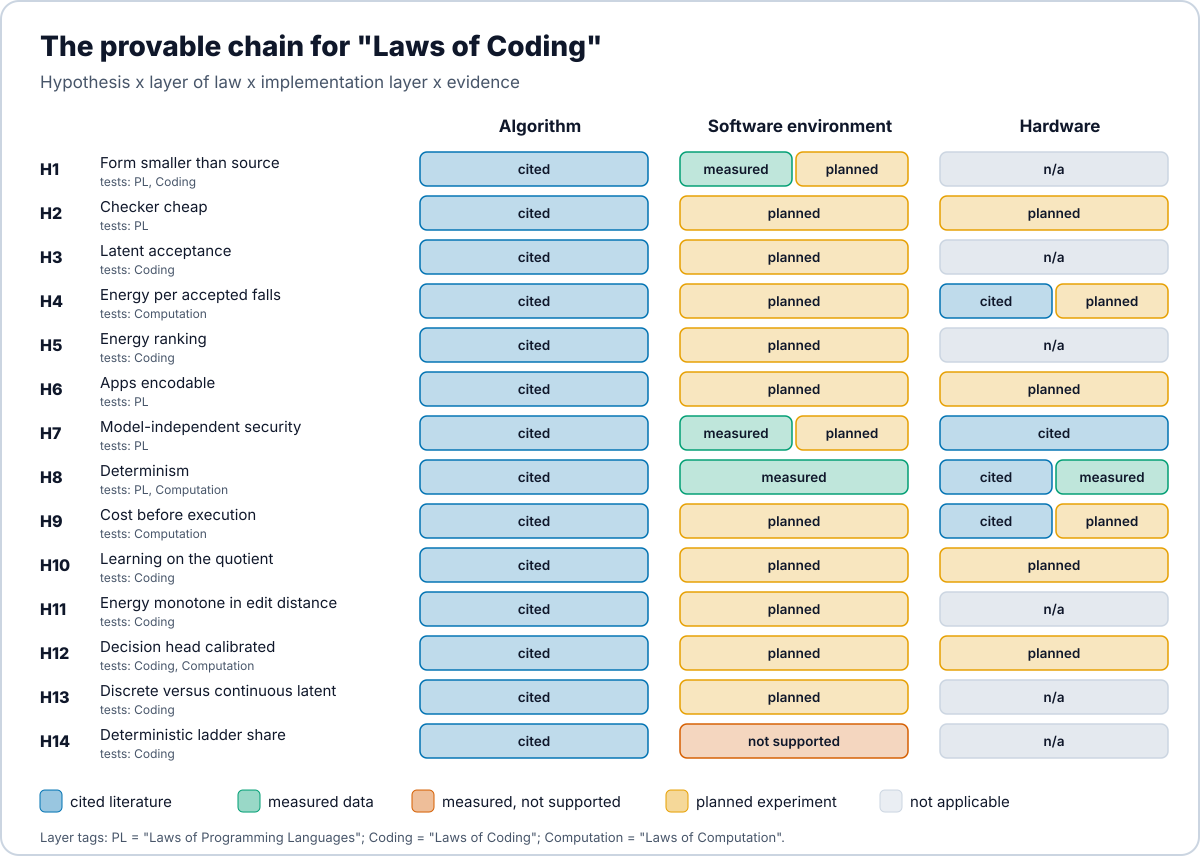
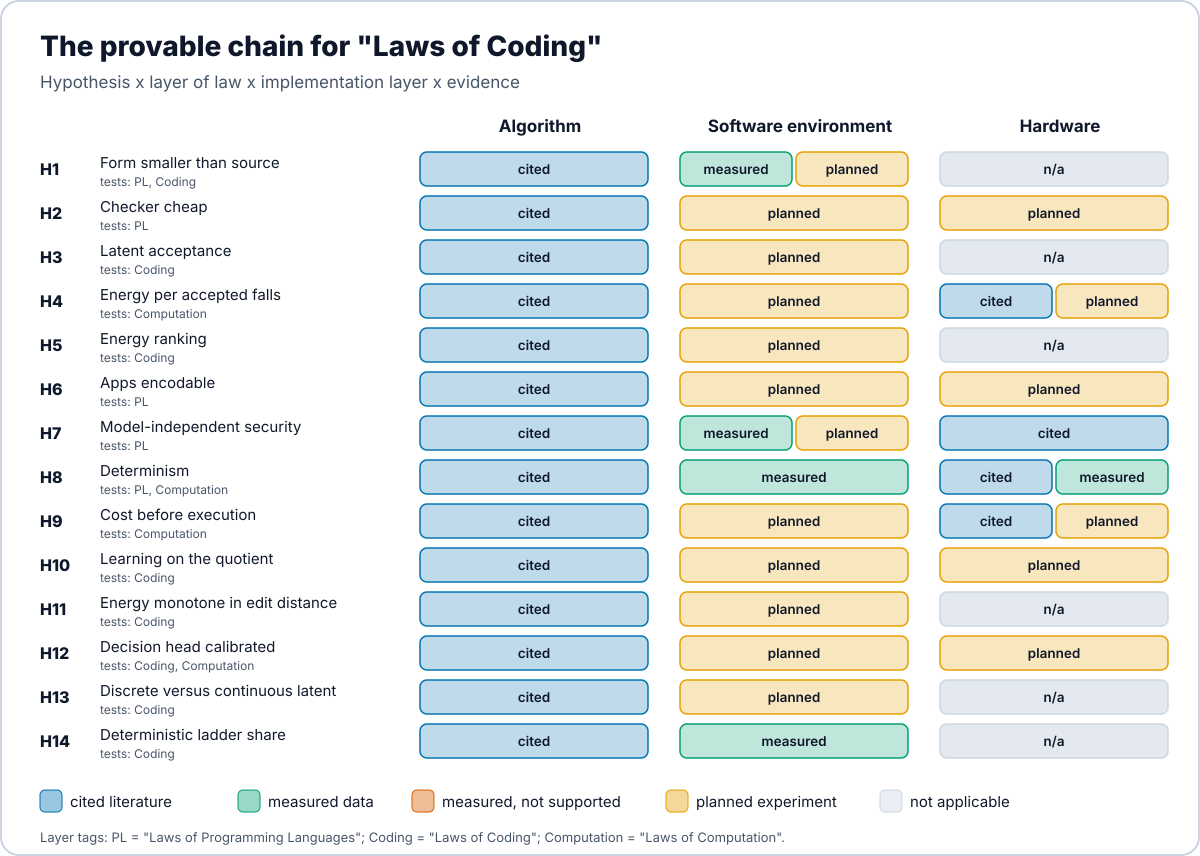
H14: report the third registered ladder run (rung e, renames)
openie-research-experiments rce/bench/ladder/rung-e/ (registration
be5f370d, results 3a5227c2, merged f76ba9d8 in pull request #23; ladder
openIE-dev/rce 8a5d90ea) reran run 2's frozen 151 tasks with rung e.
Plain arm: 111 of 151 close with zero model calls, 103 restored; renames
83 of 83 (77 restored), guard 27 of 27, history 1 of 41; 84 of 124
without the guard negations. Known-good arm: 116 close, 114 restored,
history 6 of 41; prediction P6 failed.

H14's registered rule (support at >= 10% of the registered tasks, on the
share the public ladder closes with zero model calls, every closure
admitted by the checker, at a frozen ladder commit) applied to the plain
arm gives: supported, 111 of 151 (73.5%); 31 of 151 (20.5%) at rungs a to
d alone. The known-good arm supplies the original program, an input the
rule does not name, and is not counted. The history result (1 of 41) is
stated beside the verdict.

Updated: the RCE-JEPA paper (H14 row, H14 measured, residual, Status), the
proposer section (rung 5, renames; three runs; [B32]), the provable chain
(H14 now [M]; Figure 6 regenerated), the RCE paper's Section 4.2 and [227],
the about page, the FAQ (ladder3) and the changelog.

Claude-Session: https://claude.ai/code/session_01PggDunUTHqKodWKEeUfK5j

Changed region(s): [[0.555, 0.8201, 0.7708, 0.9112]]

diff --git a/scripts/figures/rce_jepa_eras_chain.py b/scripts/figures/rce_jepa_eras_chain.py
@@ -42,10 +42,10 @@ save('eras',W,H,b,'Five eras toward "Laws of Computation"')
 # chain
 C,Mc,X,P,N='#0072B2','#009E73','#D55E00','#E69F00','#cbd5e1'
 TAG={'H1':'PL, Coding','H2':'PL','H3':'Coding','H4':'Computation','H5':'Coding','H6':'PL','H7':'PL','H8':'PL, Computation','H9':'Computation','H10':'Coding','H11':'Coding','H12':'Coding, Computation','H13':'Coding','H14':'Coding'}
-rows=[('H1','Form smaller than source','C','MP','N'),('H2','Checker cheap','C','P','P'),('H3','Latent acceptance','C','P','N'),('H4','Energy per accepted falls','C','P','CP'),('H5','Energy ranking','C','P','N'),('H6','Apps encodable','C','P','P'),('H7','Model-independent security','C','MP','C'),('H8','Determinism','C','M','CM'),('H9','Cost before execution','C','P','CP'),('H10','Learning on the quotient','C','P','P'),('H11','Energy monotone in edit distance','C','P','N'),('H12','Decision head calibrated','C','P','P'),('H13','Discrete versus continuous latent','C','P','N'),('H14','Deterministic ladder share','C','X','N')]
+rows=[('H1','Form smaller than source','C','MP','N'),('H2','Checker cheap','C','P','P'),('H3','Latent acceptance','C','P','N'),('H4','Energy per accepted falls','C','P','CP'),('H5','Energy ranking','C','P','N'),('H6','Apps encodable','C','P','P'),('H7','Model-independent security','C','MP','C'),('H8','Determinism','C','M','CM'),('H9','Cost before execution','C','P','CP'),('H10','Learning on the quotient','C','P','P'),('H11','Energy monotone in edit distance','C','P','N'),('H12','Decision head calibrated','C','P','P'),('H13','Discrete versus continuous latent','C','P','N'),('H14','Deterministic ladder share','C','M','N')]
 # Marks follow the Status section of /papers/rce-jepa/: M = registered measurement (H1 on the
-# hand-written corpus, H7 fuzzed arm, H8 six targets); X = registered measurement that does not
-# support the hypothesis as intended (H14, runs [B30, B31]); P = not yet run.
+# hand-written corpus, H7 fuzzed arm, H8 six targets, H14 runs [B30, B31, B32]); X = registered
+# measurement that does not support the hypothesis as intended (none at present); P = not yet run.
 col={'C':C,'M':Mc,'X':X,'P':P,'N':N}; lab={'C':'cited','M':'measured','X':'not supported','P':'planned','N':'n/a'}
 W,H=1200,856; b=[T(40,56,'The provable chain for "Laws of Coding"',28,800),T(40,88,'Hypothesis x layer of law x implementation layer x evidence',17,400,MUTED)]
 cx=[420,680,940]; cw=240
